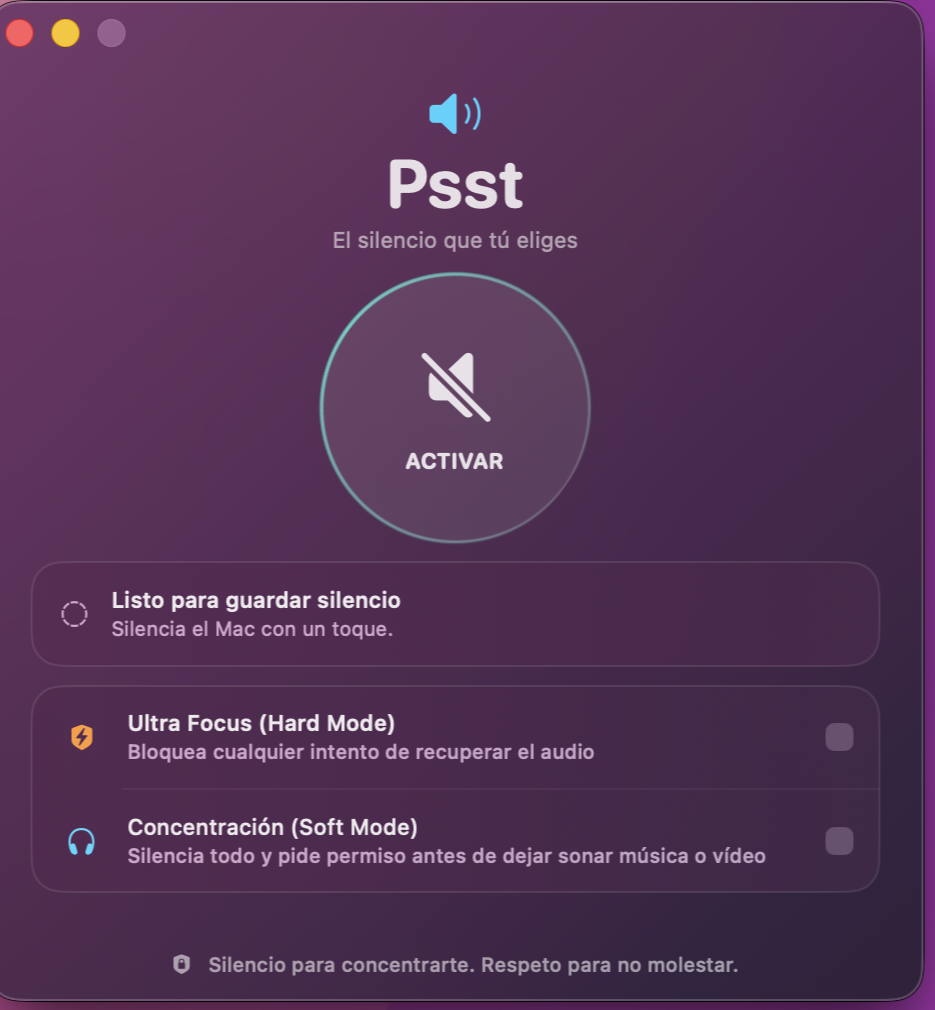
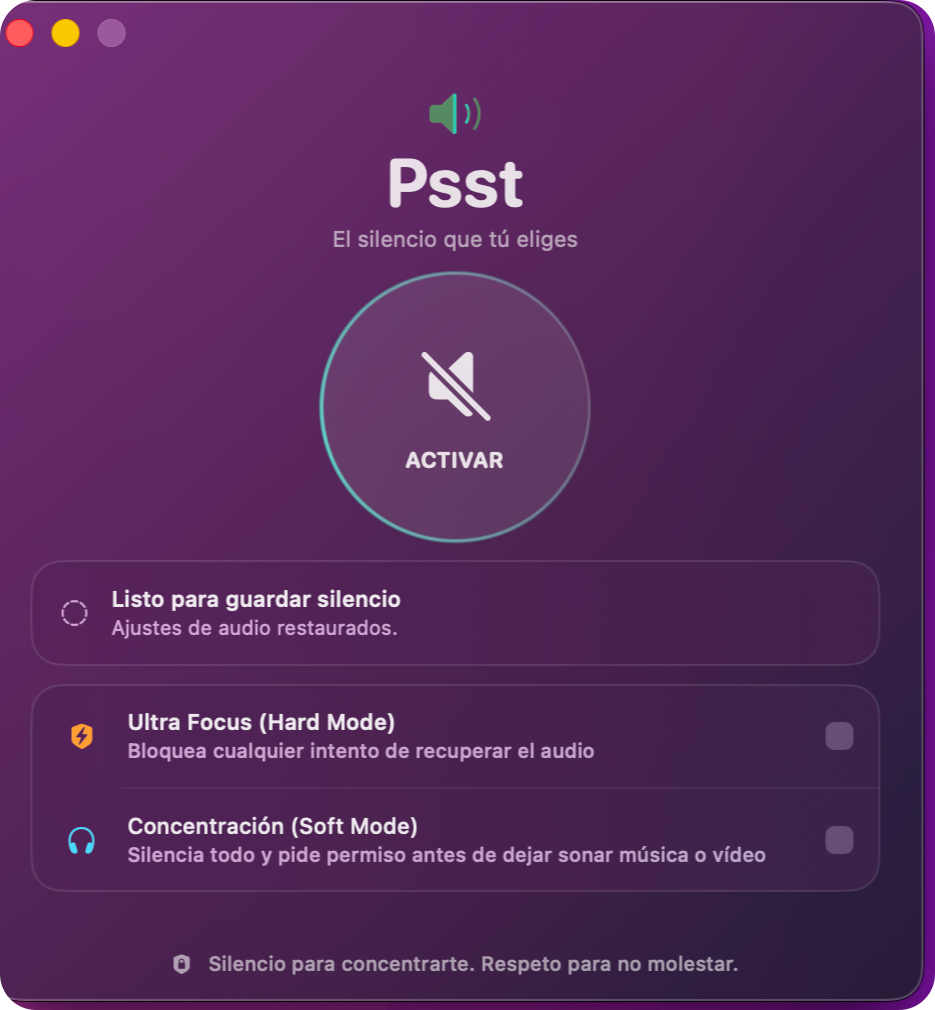
Suaviza el barrido del icono de cabecera y redondea la captura del README
- Rehace el degradado animado del icono sobre "Psst" con un patrón horizontal periódico: la ventana visible avanza dos periodos exactos y se reinicia sin saltos, en vez de aparecer/desaparecer bruscamente contra los extremos del gradiente anterior.
- Actualiza la captura del README a la interfaz actual de 1.5.0 con esquinas redondeadas y fondo transparente, coherente con el resto de imágenes de docs/images/.

diff --git a/Sources/Psst/ContentView.swift b/Sources/Psst/ContentView.swift
@@ -61,12 +61,48 @@ struct ContentView: View {
 
     private var header: some View {
         VStack(spacing: 2) {
-            Image(systemName: silence.isActive ? "speaker.slash.fill" : "speaker.wave.2.fill")
-                .font(.system(size: 24, weight: .light))
-                .foregroundStyle(silence.isActive ? .mint : .cyan)
+            if silence.isActive {
+                animatedHeaderIcon(systemName: "speaker.slash.fill", base: .red.opacity(0.55), highlight: Color(red: 1, green: 0.42, blue: 0.42))
+            } else {
+                animatedHeaderIcon(systemName: "speaker.wave.2.fill", base: .green.opacity(0.55), highlight: .mint)
+            }
             Text("Psst").font(.system(size: 34, weight: .bold, design: .rounded))
             Text("El silencio que tú eliges").font(.subheadline).foregroundStyle(.secondary)
         }
+    }
+
+    /// Degradado horizontal en bucle perfecto: la ventana visible avanza dos periodos completos
+    /// del patrón `base → highlight → base` (definido cada 1/6) y, al reiniciarse, cae exactamente
+    /// sobre una repetición idéntica del patrón, por lo que el barrido izquierda→derecha no da saltos.
+    private func animatedHeaderIcon(systemName: String, base: Color, highlight: Color) -> some View {
+        let stops: [Gradient.Stop] = [
+            .init(color: base, location: 0.0 / 6),
+            .init(color: highlight, location: 1.0 / 6),
+            .init(color: base, location: 2.0 / 6),
+            .init(color: highlight, location: 3.0 / 6),
+            .init(color: base, location: 4.0 / 6),
+            .init(color: highlight, location: 5.0 / 6),
+            .init(color: base, location: 6.0 / 6)
+        ]
+        let windowWidth = 1.0 / 3.0
+
+        return TimelineView(.animation) { timeline in
+            let duration = 3.4
+            let t = timeline.date.timeIntervalSinceReferenceDate
+                .truncatingRemainder(dividingBy: duration) / duration
+            let windowStart = t * (1 - windowWidth)
+
+            Image(systemName: systemName)
+                .font(.system(size: 24, weight: .light))
+                .foregroundStyle(
+                    LinearGradient(
+                        gradient: Gradient(stops: stops),
+                        startPoint: UnitPoint(x: windowStart, y: 0.5),
+                        endPoint: UnitPoint(x: windowStart + windowWidth, y: 0.5)
+                    )
+                )
+        }
+        .frame(width: 24, height: 24)
     }
 
     private var silenceButton: some View {

diff --git a/CHANGELOG.md b/CHANGELOG.md
@@ -6,6 +6,8 @@
 - Añade un anillo animado y muy sutil alrededor del botón principal que gira sin pausa: verde menta en **ACTIVAR** (invita a pulsar) y rojo en **DESACTIVAR** (avisa de que al pulsar se detiene el silencio). Se implementa con un reloj continuo (`TimelineView`) para que nunca se quede congelado al alternar entre estados.
 - Rehace el panel **Acerca de Psst**: el eslogan pasa a dos líneas centradas ("Silencio para concentrarte." / "Respeto para no molestar.") y el nombre del autor en el aviso de copyright es ahora un enlace a fernandomarcos.com.
 - Actualiza la versión mostrada en "Acerca de Psst" a 1.5.0.
+- Añade un icono con degradado animado sobre "Psst" (verde en reposo, rojo al silenciar) que indica si hay sonido; el barrido usa un patrón horizontal con periodo exacto para no dar saltos al reiniciarse.
+- Actualiza la captura del README a la interfaz de 1.5.0, con esquinas redondeadas para integrarse con el resto de imágenes del repositorio.
 
 ## [1.4.0] - 2026-08-17
 
